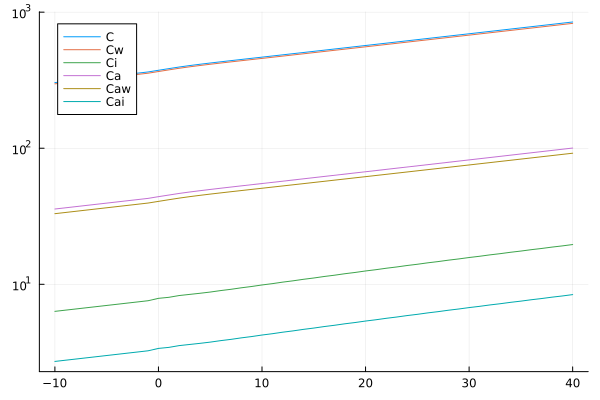
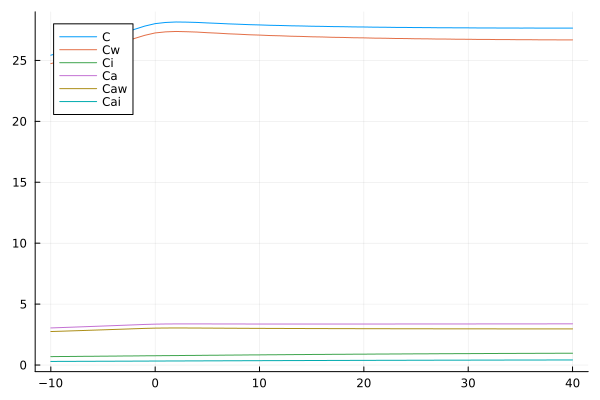
ver. 1.0.3

diff --git a/README.md b/README.md
@@ -1,6 +1,7 @@
 
 **閉鎖経済ではあるものの汎用的なSFCモデルを目指す**
 
+- [未解決事項](#未解決事項)
 - [TEM](#tem)
 - [BSM](#bsm)
 - [式一覧](#式一覧)
@@ -8,6 +9,8 @@
 - [再現されるか確かめたい現象](#再現されるか確かめたい現象)
 - [政策の変化に対してどう反応するか](#政策の変化に対してどう反応するか)
 
+# 未解決事項
+- 振動が収まらない
 
 # TEM
 |                              | 労働者(経常)  | 労働者(資本)  |   投資家(経常)    |     投資家(資本)     |  企業(経常)   |     企業(資本)     |     民間金融機関     |     統合政府     | 合計 |
@@ -72,7 +75,7 @@
 - $C_{aw}=(1-\alpha_4)\{\alpha_1(W-T_{iw}-T_{aw}-r_LL_{w-1})+\alpha_2(NW_{w-1}-K_{w-1})\}$
 - $C_{ai}=(1-\alpha_5)\{\alpha_3(P_{i-1}+TD_{b-1}-T_{ii-1}-T_{ai-1}-T_{ci}+r_{GB}GB_{i-1})+\alpha_6(M_{i-1}+E_{i-1}+D_{-1}+GB_{i-1})\}$
 - $C_a=C_{aw}+C_{ai}$
-- $I=\max[0, \min\{(\frac{C+C_a+G}{\beta_1 K_{f-1}}-u^T)K_{f-1}+\beta_2K_{f-1}, \beta_3(M_{f-1}-L_{f-1})\}]$
+- $I=\max[0, \min\{\beta_5(M_{f-1}-L_{f-1})+(\frac{C+C_a+G}{\beta_1 K_{f-1}}-u^T)K_{f-1}+\beta_2K_{f-1}, \beta_3(M_{f-1}-L_{f-1})\}]$
 - $T_v=\epsilon_2(C+C_a+G+I)$
 - $T_{ff}=\max\{0,\epsilon_3(C+C_a+G+I-W_f-T_v-T_{af}-r_LL_{f-1})\}$
 - $P=C+C_a+G+I-W_f-T_v-T_{ff}-T_{af}-r_LL_{f-1}$
@@ -206,11 +209,11 @@ $$
 
 # 外生変数とパラメータ
 - $(\alpha_1, \alpha_2, \alpha_3, \alpha_4, \alpha_5, \alpha_6)=(0.9, 0.05, 0.2, 0.9, 0.7, 0.01)$
-- $(\beta_1, \beta_2, \beta_3, \beta_4)=(1,0.05,1, 0.05)$
-- $\gamma=0.02$
+- $(\beta_1, \beta_2, \beta_3, \beta_4, \beta_5)=(1,0.05,1, 0.05, 0.05)$
+- $\gamma=0.01$
 - $\delta=0.65$
 - $(\epsilon_1, \epsilon_2, \epsilon_3, \epsilon_4, \epsilon_5, \epsilon_6, \epsilon_7, \epsilon_8, \epsilon_9)=(0.2,0.1,0.2,0.4, 0.03, 0.03, 0.2, 0.01, 0.02)$
-- $\zeta_1, \zeta_2 =0.3, 0.05$
+- $\zeta_1, \zeta_2 =0.3, 0.1$
 - $(\eta_1,\eta_2,\eta_3,\eta_4,\eta_5)=(5,0.05,1,1,0.01)$
 - $(\theta_1, \theta_2)=(0.05, 0.3)$
 - $(\lambda_V, \lambda_w)=(0.5, 0.5)$
